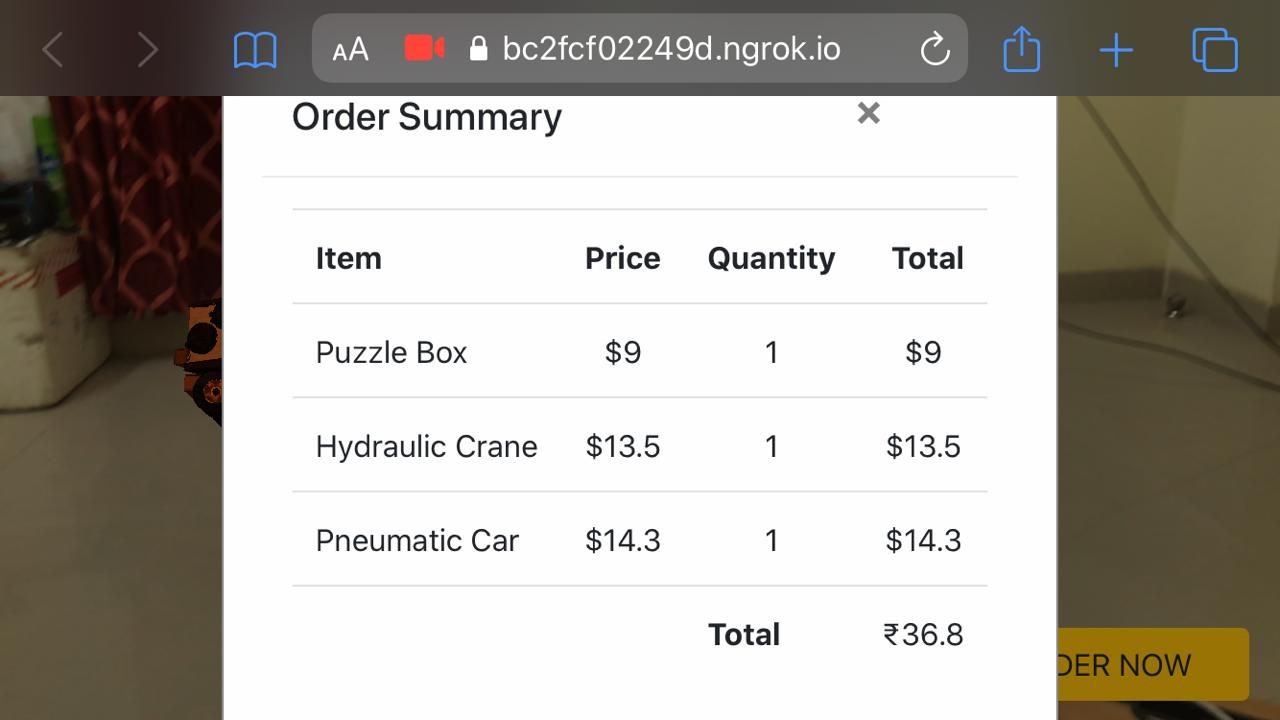
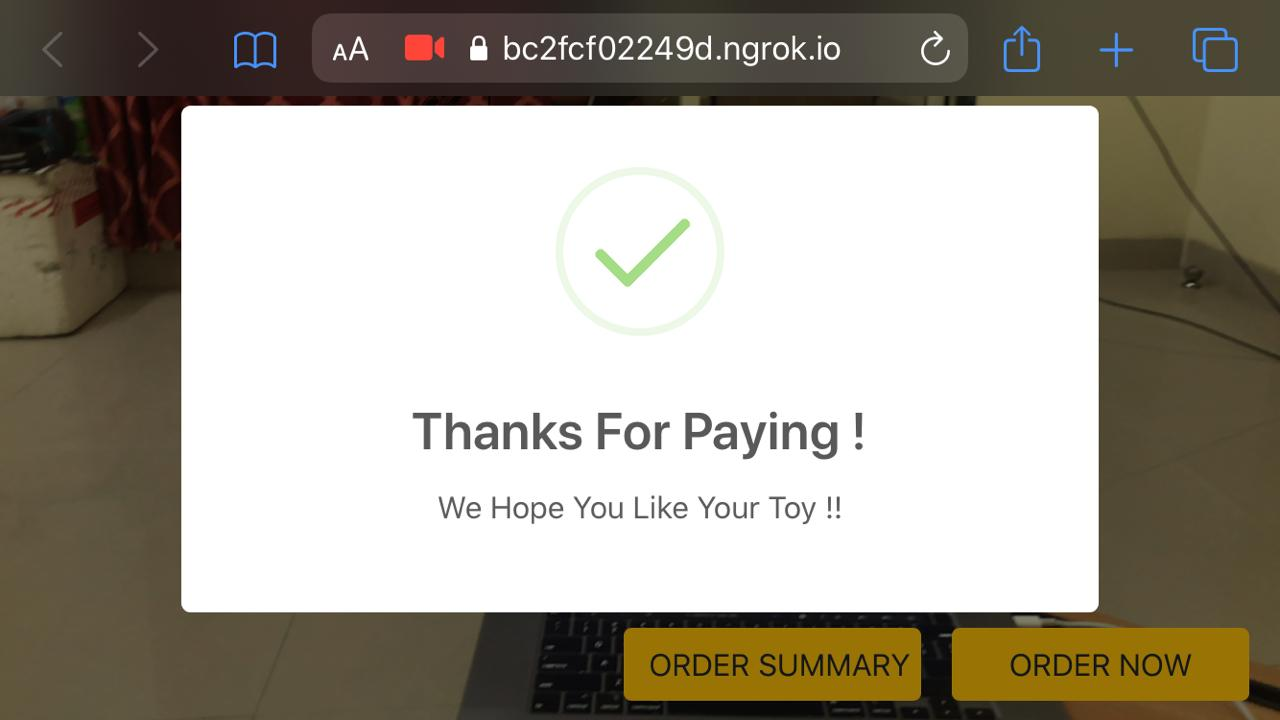
Final Output Images added

diff --git a/style.css b/style.css
@@ -43,6 +43,7 @@ button {
 
 
 
+
 .rating-modal {
   display: none; /* Hidden by default */
   position: fixed; /* Stay in place */
@@ -63,3 +64,5 @@ button {
  Styling for Stars
  */
  .rating-loading{width:25px;height:25px;font-size:0;color:#fff;background:url(../img/loading.gif) top left no-repeat;border:none}.rating-container .rating-stars{position:relative;cursor:pointer;vertical-align:middle;display:inline-block;overflow:hidden;white-space:nowrap}.rating-container .rating-input{position:absolute;cursor:pointer;width:100%;height:1px;bottom:0;left:0;font-size:1px;border:none;background:0 0;padding:0;margin:0}.rating-disabled .rating-input,.rating-disabled .rating-stars{cursor:not-allowed}.rating-container .star{display:inline-block;margin:0 3px;text-align:center}.rating-container .empty-stars{color:#aaa}.rating-container .filled-stars{position:absolute;left:0;top:0;margin:auto;color:#fde16d;white-space:nowrap;overflow:hidden;-webkit-text-stroke:1px #777;text-shadow:1px 1px #999}.rating-rtl{float:right}.rating-animate .filled-stars{transition:width .25s ease;-o-transition:width .25s ease;-moz-transition:width .25s ease;-webkit-transition:width .25s ease}.rating-rtl .filled-stars{left:auto;right:0;-moz-transform:matrix(-1,0,0,1,0,0) translate3d(0,0,0);-webkit-transform:matrix(-1,0,0,1,0,0) translate3d(0,0,0);-o-transform:matrix(-1,0,0,1,0,0) translate3d(0,0,0);transform:matrix(-1,0,0,1,0,0) translate3d(0,0,0)}.rating-rtl.is-star .filled-stars{right:.06em}.rating-rtl.is-heart .empty-stars{margin-right:.07em}.rating-lg{font-size:3.91em}.rating-md{font-size:3.13em}.rating-sm{font-size:2.5em}.rating-xs{font-size:2em}.rating-xl{font-size:4.89em}.rating-container .clear-rating{color:#aaa;cursor:not-allowed;display:inline-block;vertical-align:middle;font-size:60%;padding-right:5px}.clear-rating-active{cursor:pointer!important}.clear-rating-active:hover{color:#843534}.rating-container .caption{color:#999;display:inline-block;vertical-align:middle;font-size:60%;margin-top:-.6em;margin-left:5px;margin-right:0}.rating-rtl .caption{margin-right:5px;margin-left:0}@media print{.rating-container .clear-rating{display:none}}
+
+ 

diff --git a/index.html b/index.html
@@ -20,6 +20,15 @@
       crossorigin="anonymous"
     />
 
+    <link
+      href="//maxcdn.bootstrapcdn.com/bootstrap/3.3.0/css/bootstrap.min.css"
+      rel="stylesheet"
+      id="bootstrap-css"
+    />
+    <script src="//maxcdn.bootstrapcdn.com/bootstrap/3.3.0/js/bootstrap.min.js"></script>
+    <script src="//code.jquery.com/jquery-1.11.1.min.js"></script>
+    <script src="//code.jquery.com/jquery-1.11.1.min.js"></script>
+
     <!-- sweetalert -->
     <script src="https://unpkg.com/sweetalert/dist/sweetalert.min.js"></script>
 
@@ -47,6 +56,7 @@
     <script src="./js/addButtons.js"></script>
     <script src="./js/addMarkers.js"></script>
     <script src="./js/markerhandler.js"></script>
+    <script src="./js/stars.js"></script>
   </head>
 
   <body style="margin : 0px; overflow: hidden;">

diff --git a/js/markerhandler.js b/js/markerhandler.js
@@ -203,7 +203,7 @@ AFRAME.registerComponent("markerhandler", {
 
     var td4 = document.createElement("td");
     td1.setAttribute("class", "no-line text-right");
-    td4.innerHTML = "₹" + orderSummary.total_bill;
+    td4.innerHTML = "$" + orderSummary.total_bill;
 
     totalTr.appendChild(td1);
     totalTr.appendChild(td2);

diff --git a/js/stars.js b/js/stars.js
@@ -589,7 +589,7 @@
       filledStar: '<i class="glyphicon glyphicon-star"></i>',
       emptyStar: '<i class="glyphicon glyphicon-star-empty"></i>',
       containerClass: "",
-      size: "md",
+      size: "xs",
       animate: !0,
       displayOnly: !1,
       rtl: !1,
